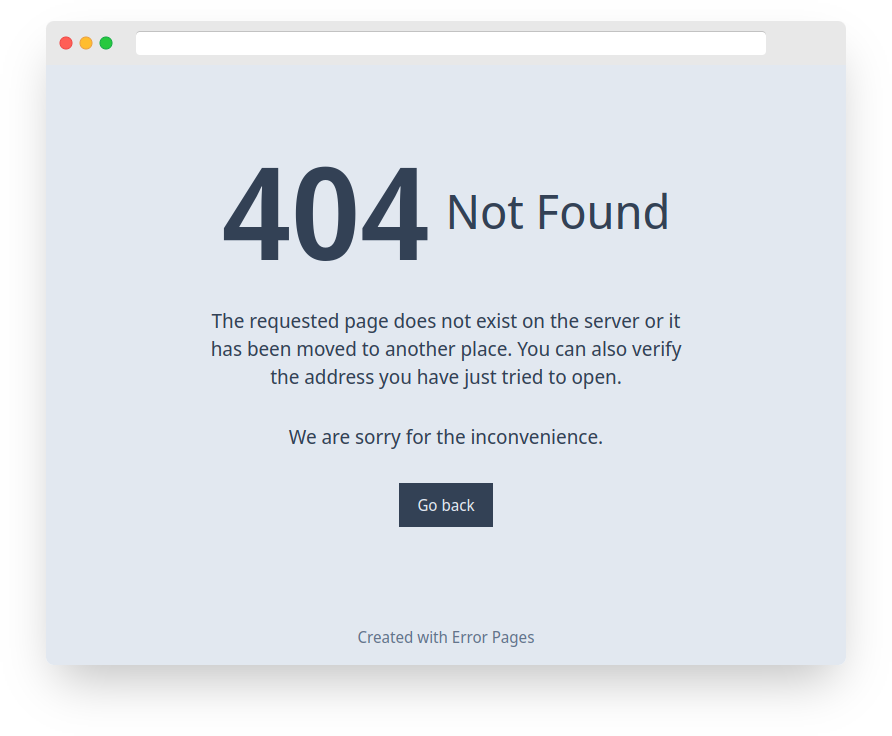
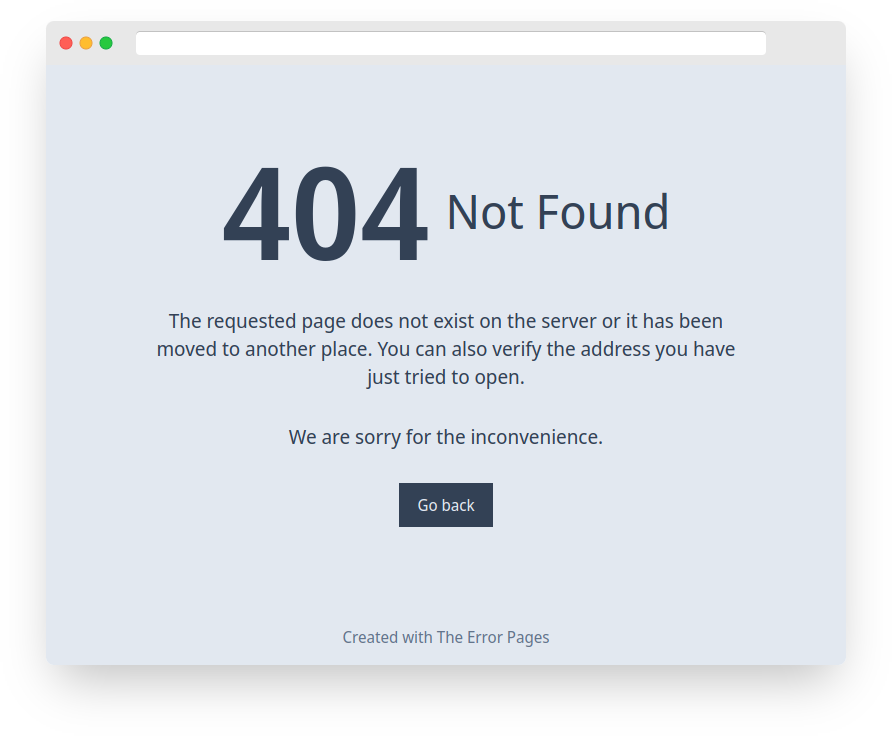
fix: minor text and html changes (#17)
* fix: minor text and html fixes

* 1.8.1

Changed region(s): [[0.1816, 0.4062, 0.8173, 0.5312], [0.3935, 0.8438, 0.6054, 0.875]]

diff --git a/pages/index.html b/pages/index.html
@@ -13,17 +13,19 @@
     <link rel="preconnect" href="https://fonts.googleapis.com" />
     <link rel="preconnect" href="https://fonts.gstatic.com" crossorigin />
     <link href="https://fonts.googleapis.com/css2?family=Noto+Sans+Display:wght@400;600&display=swap" rel="stylesheet" />
-    
+
     <!-- Google tag (gtag.js) -->
     <script async src="https://www.googletagmanager.com/gtag/js?id=G-LWEPD44MND"></script>
     <script>
       window.dataLayer = window.dataLayer || [];
-      function gtag(){dataLayer.push(arguments);}
-      gtag('js', new Date());
+      function gtag() {
+        dataLayer.push(arguments);
+      }
+      gtag("js", new Date());
 
-      gtag('config', 'G-LWEPD44MND');
+      gtag("config", "G-LWEPD44MND");
     </script>
-    
+
     <script>
       (async () => {
         // Personal Token to page Debug
@@ -88,7 +90,7 @@
     <img class="xs:w-fit mt-8 -mb-8" src="./assets/screenshot.png" alt="Preview of Error 404" />
 
     <h2>Main Features<a id="main-features"></a></h2>
-    <ul class="list-inside list-disc px-4 mt-2">
+    <ul class="mt-2 list-inside list-disc px-4">
       <li>Static pages with simple and responsive design</li>
       <li>Lightweight and fast running</li>
       <li>Extensibility</li>
@@ -99,7 +101,7 @@
     </ul>
 
     <h2>Demo<a id="demo"></a></h2>
-    <ul class="list-inside list-disc px-4 mt-2">
+    <ul class="mt-2 list-inside list-disc px-4">
       <li><a href="https://sapachev.com/error-pages/bad-request" target="_blank" rel="nofollow">400 Bad Request</a></li>
       <li><a href="https://sapachev.com/error-pages/unauthorized" target="_blank" rel="nofollow">401 Unauthorized</a></li>
       <li><a href="https://sapachev.com/error-pages/forbidden" target="_blank" rel="nofollow">403 Forbidden</a></li>
@@ -112,11 +114,8 @@
     </ul>
 
     <h2>Precompiled Packages<a id="precompiled-packages"></a></h2>
-    <p class="mt-2">
-      In case if you don't want to build error pages by yourself, you are can download automatically created packages with the latest
-      version of sources:
-    </p>
-    <ul id="list" class="list-inside list-disc px-4 mt-2">
+    <p class="mt-2">Here you can download the latest version packages according to existing locales:</p>
+    <ul id="list" class="mt-2 list-inside list-disc px-4">
       <p>Wait please to load packages list...</p>
       <noscript>Unable to load packages list due to disabled JavaScript</noscript>
     </ul>

diff --git a/themes/minimalistic/template.html b/themes/minimalistic/template.html
@@ -8,17 +8,17 @@
     <meta name="author" content="Pavel Sapachev" />
     <meta name="version" content="{{ version }}" />
 
-    <link href="/%40assets/css/main.css?v{{ version }}" rel="stylesheet" type="text/css" />
+    <link href="./%40assets/css/main.css?v{{ version }}" rel="stylesheet" type="text/css" />
 
     <link rel="preconnect" href="https://fonts.googleapis.com" />
     <link rel="preconnect" href="https://fonts.gstatic.com" crossorigin />
     <link href="https://fonts.googleapis.com/css2?family=Noto+Sans+Display:wght@400;600&display=swap" rel="stylesheet" />
   </head>
 
-  <body class="bg-slate-200 text-slate-700">
+  <body class="min-w-60 bg-slate-200 text-slate-700">
     <div class="wrapper grid grid-rows-centered items-center justify-items-center gap-4 py-4">
       <div class="grid w-full items-center gap-8">
-        <header class="flex flex-col items-center justify-center justify-items-center md:flex-row">
+        <header class="flex flex-col flex-wrap items-center justify-center justify-items-center md:flex-row">
           <h1 class="text-9xl font-semibold sm:inline-block">{{ code }}</h1>
           <h2 class="text-center text-5xl sm:inline-block md:ml-4">{{ name }}</h2>
         </header>
@@ -38,9 +38,9 @@
         </button>
       </div>
 
-      <footer>
+      <footer class="text-center">
         <a
-          href="https://github.com/sapachev/error-pages"
+          href="https://sapachev.github.io/error-pages/"
           target="_blank"
           class="text-slate-500 focus:ring-2 focus:ring-slate-700 focus:ring-offset-4 focus:ring-offset-slate-200 focus-visible:outline-none"
           aria-label="{{ comment-aria }}"

diff --git a/themes/minimalistic/theme.tailwind.config.js b/themes/minimalistic/theme.tailwind.config.js
@@ -4,6 +4,9 @@ exports.theme = {
     gridTemplateRows: {
       centered: "1fr auto",
     },
+    minWidth: {
+      60: "15rem",
+    },
     width: {
       152: "38rem",
     },

diff --git a/README.md b/README.md
@@ -1,8 +1,8 @@
 [![Quality Check](https://github.com/sapachev/error-pages/actions/workflows/ci.yml/badge.svg)](https://github.com/sapachev/error-pages/actions/workflows/ci.yml) [![Coverage Status](https://coveralls.io/repos/github/sapachev/error-pages/badge.svg?branch=main)](https://coveralls.io/github/sapachev/error-pages?branch=main)
 
-## Custom HTTP Error Pages
+## The Error Pages
 
-Lightweight tool to create static HTTP Error Pages in minimalistic adaptive and accessible design with customization and localization support.
+Lightweight tool to create static custom HTTP Error Pages in minimalistic adaptive and accessible design with customization and localization support.
 
 # Features
 
@@ -14,7 +14,7 @@ Lightweight tool to create static HTTP Error Pages in minimalistic adaptive and 
 * Accessibility (a11y)
 * Built-in web server config generator (Nginx)
 
-![Screenshot](https://sapachev.github.io/error-pages/assets/screenshot.png?1)
+![Screenshot](https://sapachev.github.io/error-pages/assets/screenshot.png?2)
 
 # Demo
 
